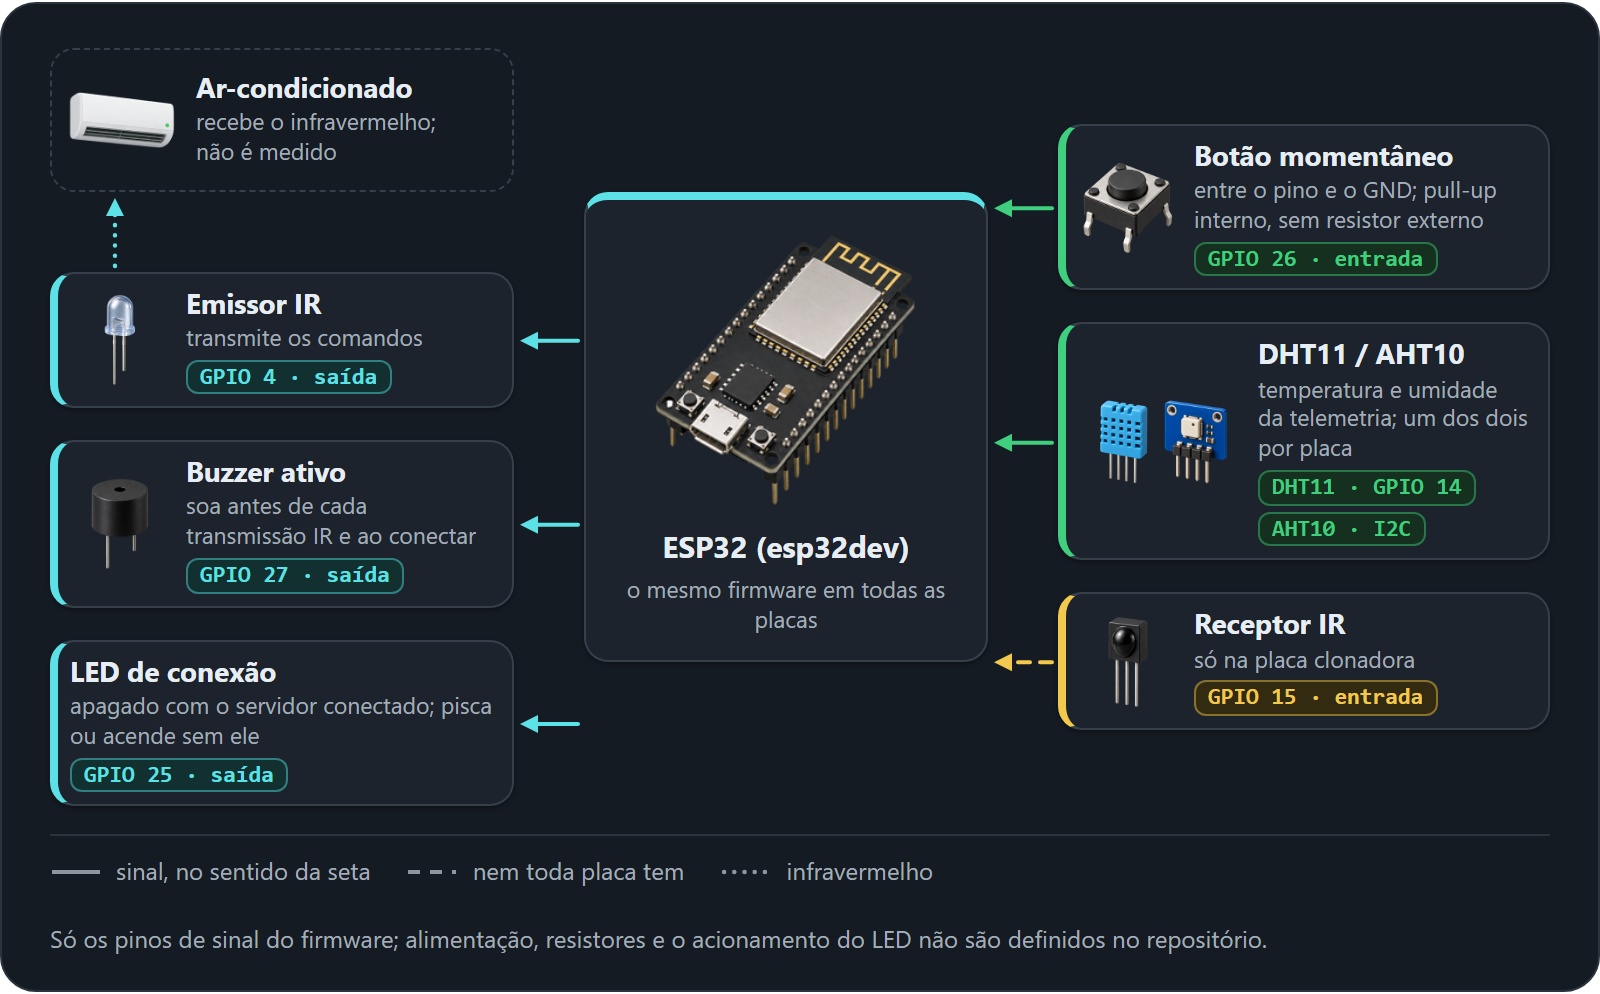
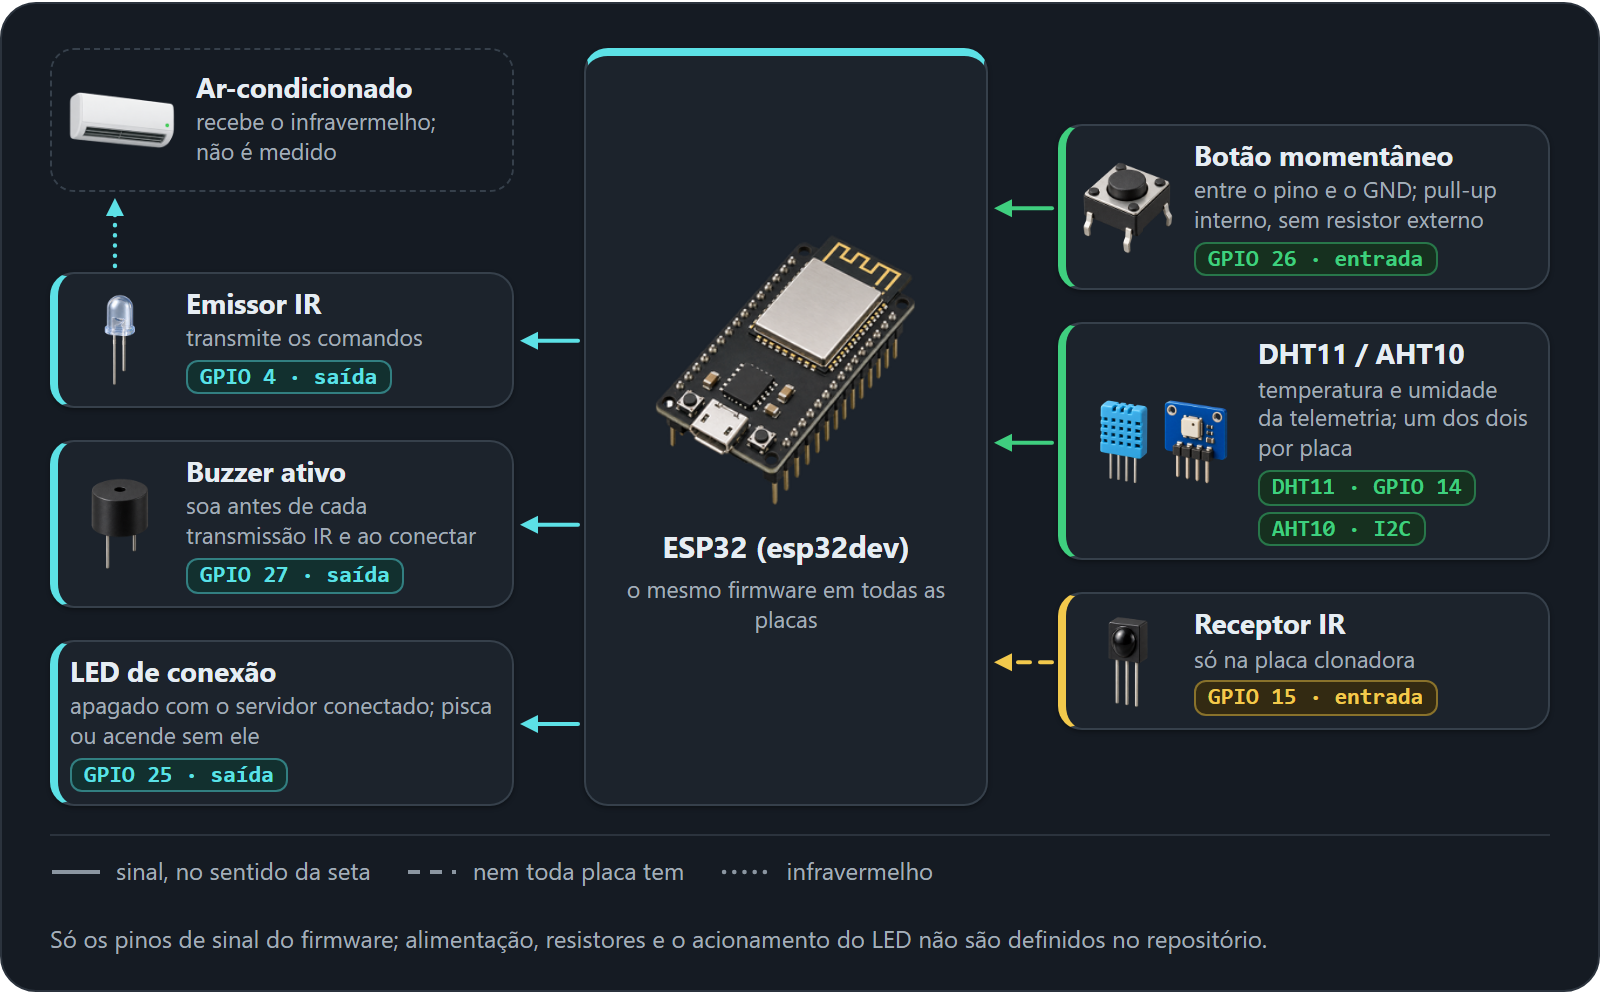
Stretch the ESP32 card so every signal arrow ends on it
The connectors in the hardware figure are straight lines level with
each part's card. With the connection LED card below the board and the
taller sensor card, the arrows from the button, the IR receiver and the
LED landed above, on the edge of or below the ESP32 card. The card now
spans the height of both columns with its content centred, so each
arrow meets it.

Changed region(s): [[0.3438, 0.1871, 0.625, 0.2183], [0.375, 0.0312, 0.625, 0.0624]]

diff --git a/docs/readme-assets/src/esp32-hardware.html b/docs/readme-assets/src/esp32-hardware.html
@@ -20,7 +20,7 @@
     color: var(--tom); padding: 2px 6px; border-radius: 6px;
     background: var(--tom-suave); border: 1px solid color-mix(in srgb, var(--tom) 45%, transparent);
   }
-  #placa { flex-direction: column; justify-self: center; padding: 10px 14px 12px; gap: 4px; text-align: center; border-left-width: 1px; border-top: 4px solid var(--petroleo); }
+  #placa { flex-direction: column; justify-self: center; align-self: stretch; justify-content: center; padding: 10px 14px 12px; gap: 4px; text-align: center; border-left-width: 1px; border-top: 4px solid var(--petroleo); }
   #placa .modulo { width: 150px; height: 150px; }
   #placa .titulo { font-size: 15px; }
   #placa .sub { font-size: 11.5px; max-width: 172px; }
